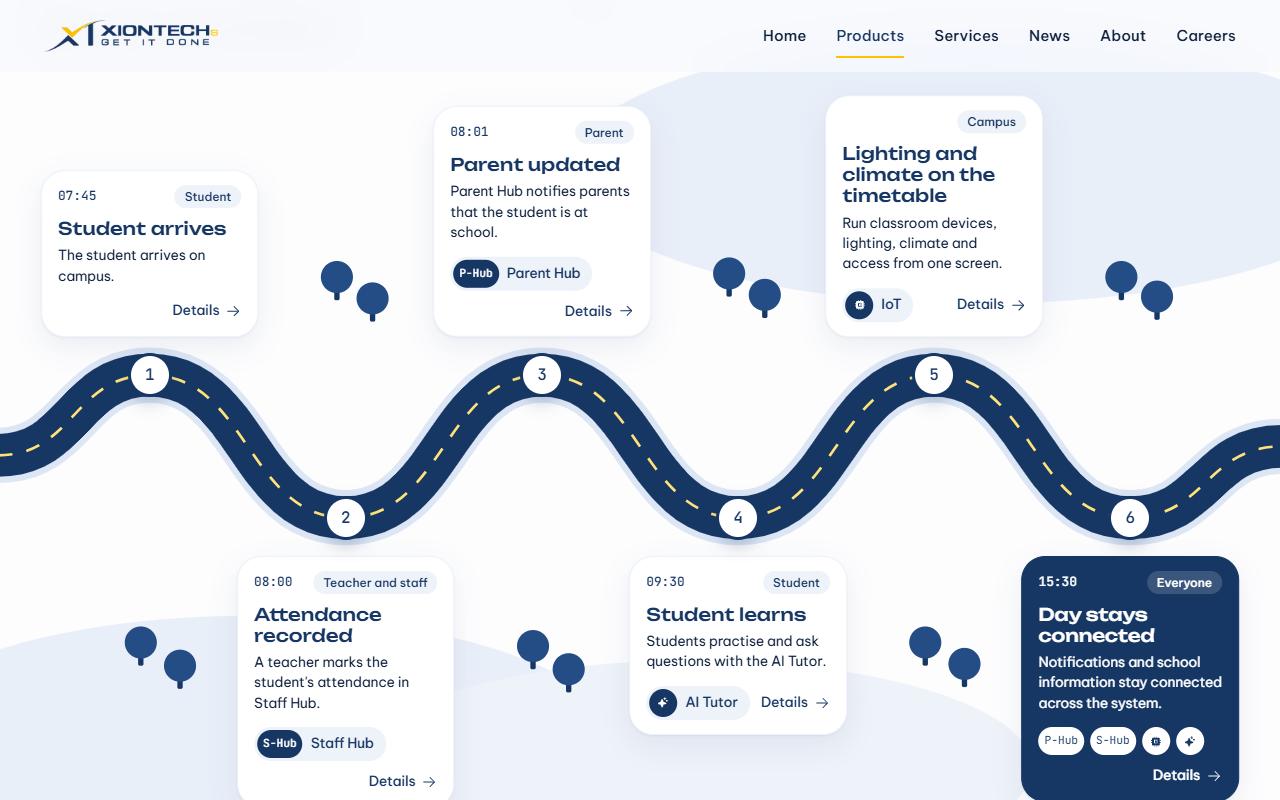
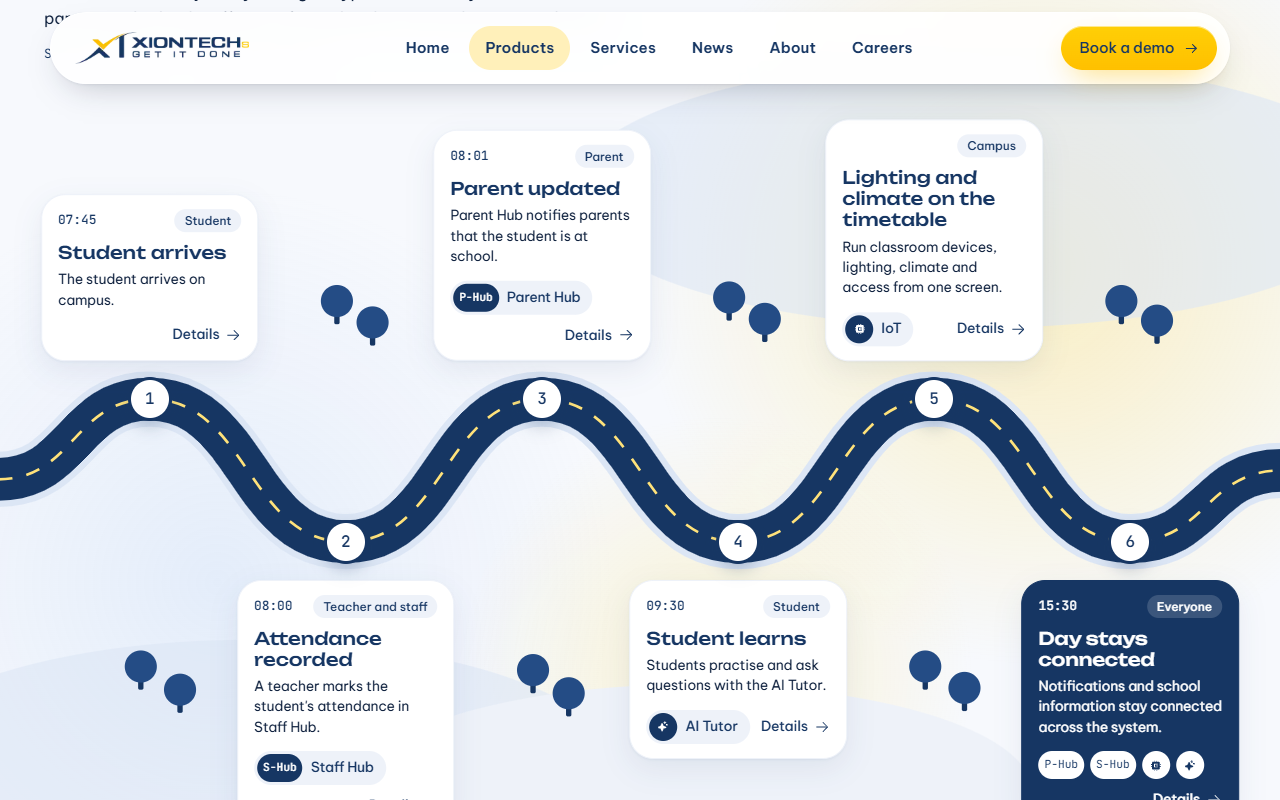
docs(products): scroll tour evidence after merging develop; AI log

diff --git a/_bmad-output/implementation-artifacts/spec-products-roadmap-scroll-tour.md b/_bmad-output/implementation-artifacts/spec-products-roadmap-scroll-tour.md
@@ -98,7 +98,7 @@ context:
 
 | Part | State or action | Input | Expected (visible) | Timing | Source | Checked |
 | --- | --- | --- | --- | --- | --- | --- |
-| Pin | Scroll into the roadmap at 1280×800 | Mouse wheel, touch, keyboard (Space, PgDn, arrows) | Roadmap sticks below the header; stop 1 is active | Follows scroll | Sammy 2026-10-12  | ✅ walk: stage top 88 at every step; e2e pinned |
+| Pin | Scroll into the roadmap at 1280×800 | Mouse wheel, touch, keyboard (Space, PgDn, arrows) | Roadmap sticks below the header; stop 1 is active | Follows scroll | Sammy 2026-10-12  | ✅ walk: stage top 96 (header room) at every step; e2e pinned |
 | Advance | Keep scrolling | Same | Stops 2→6 become active in turn; road draws up to the active stop; the active pin is amber with its halo; the active card is emphasised | Road ~400ms `--ease-brand` per step | Sammy 2026-10-12  | ✅ walk steps 1-6 active and selected in order; screenshots tour-step-1/3/6; e2e once-in-order |
 | Back | Scroll up | Same | Active stop and road step back | Same | Spec  | ✅ walk: back to step 3; e2e steps back |
 | Exit | Past stop 6 | Same | Roadmap releases; the demo band follows | Native | Sammy 2026-10-12  | ✅ walk: demo band in view past the roadmap (after-tour.png) |
@@ -113,6 +113,8 @@ context:
 ## Implementation Notes
 
 ## Spec Change Log
+
+- **After merging develop (2026-10-13).** Develop's floating header pill needs `--spacing-header-room` (96px): the stage pins there and fits below it (JS cutoff about 702px tall); anchors keep 16px below the room. Five review layers; a 700/720 boundary test guards the cutoff.
 
 - **Task 3 (2026-10-12).** Deep links scroll smoothly through the stops on the way (Chrome's fragment scroll); the end state is exact. The Deep-link UX row's timing was set to "smooth". The tour starts only when the stage fits at a zoom of at least 0.72 (measured); shorter wide windows get the static roadmap. Card text has a floor of 11.5px (DESIGN.md:537) under the zoom.
 
@@ -144,12 +146,12 @@ context:
 
 ## Acceptance Evidence
 
-Captured after the review patches on 2026-10-12.
+Captured after merging develop (floating header pill) on 2026-10-13.
 
 **Commands**
 
 - `npm run lint && npm run typecheck && npm run format:check` -- exit 0 -- clean
-- `npm test` -- exit 0 -- Test Files 86 passed (86); Tests 1286 passed (1286)
+- `npm test` -- exit 0 -- Test Files 95 passed (95); Tests 1375 passed (1375)
 - `npm run test:coverage && npm run coverage:diff` -- exit 0 -- Total 164 lines, Missing 0, Coverage 100%; `products/journey` branches 98.87%
 - `npm run test:smoke` -- exit 0 -- 15 passed
 - `npm run build` -- exit 0 -- success
@@ -158,7 +160,7 @@ Captured after the review patches on 2026-10-12.
 **Observed**
 
 - Walk on a production build (`next start -p 3005`, Chrome), `walk-output.txt`:
-  - 1280×800: steps 1–6 active and selected in order with the stage pinned at 88px, fitting with no sideways scroll. The demo band follows, scrolling back restores the step, and CLS is 0.0001.
+  - 1280×800: steps 1–6 active and selected in order with the stage pinned at 96px (below the header pill), fitting with no sideways scroll. The demo band follows, scrolling back restores the step, and CLS is 0.0001.
   - A card opens its modal with no details button, the stop is selected, and Esc returns focus. "What we build" is gone.
   - The stage fits at 1366×768, 1440×900 and 1920×1080. Deep links `#sxp`, `#pxp`, `#ai-tutor` and `#iot` land on stops 2–5, each card fully visible.
   - Reduced motion: no tour. 390px: stops reveal as scrolled, with no sideways scroll.
@@ -166,7 +168,7 @@ Captured after the review patches on 2026-10-12.
 **Artifacts**
 
 - [verification.txt](spec-products-roadmap-scroll-tour-evidence/verification.txt), [walk.mjs](spec-products-roadmap-scroll-tour-evidence/walk.mjs), [walk-output.txt](spec-products-roadmap-scroll-tour-evidence/walk-output.txt)
-- `tour-step-1.png`, `tour-step-3.png`, `tour-step-6.png`, `after-tour.png`, `deeplink-sxp.png`, `reduced.png`, `phone.png` (hashes in the ledger, rows marked "final")
+- `tour-step-1.png`, `tour-step-3.png`, `tour-step-6.png`, `after-tour.png`, `deeplink-sxp.png`, `reduced.png`, `phone.png` (hashes in the ledger, rows marked "final, after merge")
 
 **Not captured**
 

diff --git a/_bmad-output/implementation-artifacts/spec-products-roadmap-scroll-tour-progress.md b/_bmad-output/implementation-artifacts/spec-products-roadmap-scroll-tour-progress.md
@@ -67,3 +67,22 @@ Acceptance: evidence — spec-products-roadmap-scroll-tour-evidence/after-tour.p
 Acceptance: evidence — spec-products-roadmap-scroll-tour-evidence/deeplink-sxp.png — 164449 bytes — sha256 5376a6756594 — deeplink-sxp.png (final)
 Acceptance: evidence — spec-products-roadmap-scroll-tour-evidence/reduced.png — 196793 bytes — sha256 657a2223da70 — reduced.png (final)
 Acceptance: evidence — spec-products-roadmap-scroll-tour-evidence/phone.png — 103545 bytes — sha256 d592e63b3c79 — phone.png (final)
+Merge: develop merged twice (d5d5d16, 83dc107); conflicts resolved (page.tsx inside PageScene, showcase stays deleted, CSS kept ours, AI log both, home.ts lede from journeyMap)
+Follow-up: develop's floating header pill — tour pins at --spacing-header-room (96px); commits 38787d9, 610273d, e8409bf; five review layers (security clean; edge, blind, gap, auditor → comment, null-safe settle, literal 16px margin, 700/720 boundary test verified red on the old margin)
+Acceptance: verification — npm run lint && npm run typecheck && npm run format:check — exit 0 — clean
+Acceptance: verification — npm test — exit 0 — Test Files 95 passed (95); Tests 1375 passed (1375)
+Acceptance: verification — npm run test:coverage && npm run coverage:diff — exit 0 — Total 164 lines, Missing 0, Coverage 100%
+Acceptance: verification — npm run test:smoke — exit 0 — 15 passed
+Acceptance: verification — npm run build — exit 0 — success
+Acceptance: verification — npx playwright test --project=a11y — exit 0 — 57 passed (1.8m)
+Acceptance: manual — walk after merge — observed: steps 1-6 active and selected in order, stage top 96 under the header pill, fits at 1280x800, 1366x768, 1440x900, 1920x1080, no sideways scroll, CLS 0.0001; #sxp→2, #pxp→3, #ai-tutor→4, #iot→5 cards fully visible; reduced static; phone no sideways scroll
+Acceptance: evidence — spec-products-roadmap-scroll-tour-evidence/verification.txt — 15916 bytes — sha256 ebf2191b96e1 — verification.txt (final, after merge)
+Acceptance: evidence — spec-products-roadmap-scroll-tour-evidence/walk.mjs — 6754 bytes — sha256 02271870c2fe — walk.mjs (final, after merge)
+Acceptance: evidence — spec-products-roadmap-scroll-tour-evidence/walk-output.txt — 1762 bytes — sha256 a9c77480d154 — walk-output.txt (final, after merge)
+Acceptance: evidence — spec-products-roadmap-scroll-tour-evidence/tour-step-1.png — 430109 bytes — sha256 70589ee39e98 — tour-step-1.png (final, after merge)
+Acceptance: evidence — spec-products-roadmap-scroll-tour-evidence/tour-step-3.png — 431716 bytes — sha256 b49adf04aff2 — tour-step-3.png (final, after merge)
+Acceptance: evidence — spec-products-roadmap-scroll-tour-evidence/tour-step-6.png — 403484 bytes — sha256 e1bbdd1c756c — tour-step-6.png (final, after merge)
+Acceptance: evidence — spec-products-roadmap-scroll-tour-evidence/after-tour.png — 277935 bytes — sha256 c944d3104395 — after-tour.png (final, after merge)
+Acceptance: evidence — spec-products-roadmap-scroll-tour-evidence/deeplink-sxp.png — 419956 bytes — sha256 10205310b1bb — deeplink-sxp.png (final, after merge)
+Acceptance: evidence — spec-products-roadmap-scroll-tour-evidence/reduced.png — 443356 bytes — sha256 1fa7b26551ad — reduced.png (final, after merge)
+Acceptance: evidence — spec-products-roadmap-scroll-tour-evidence/phone.png — 118787 bytes — sha256 0528393f2ca0 — phone.png (final, after merge)

diff --git a/docs/ai-log.md b/docs/ai-log.md
@@ -1697,3 +1697,4 @@ Template:
   - The road ran backwards once at load.
   - Scrolling behind an open modal moved the selected pin.
   - The first anchor pass left `#pxp` and `#iot` landing under the header.
+- **Follow-up (2026-10-13), merging develop:** develop's floating header pill moved the header bottom to 96px, so the pinned roadmap slid under it. The tour now pins at `--spacing-header-room`. The AI first copied develop's anchor formula onto the tour's step anchors as well; that dropped deep links 16px short of their stop, and the e2e caught it. The footer-link test also had to wait for develop's new footer scroll reveal to settle before clicking.
